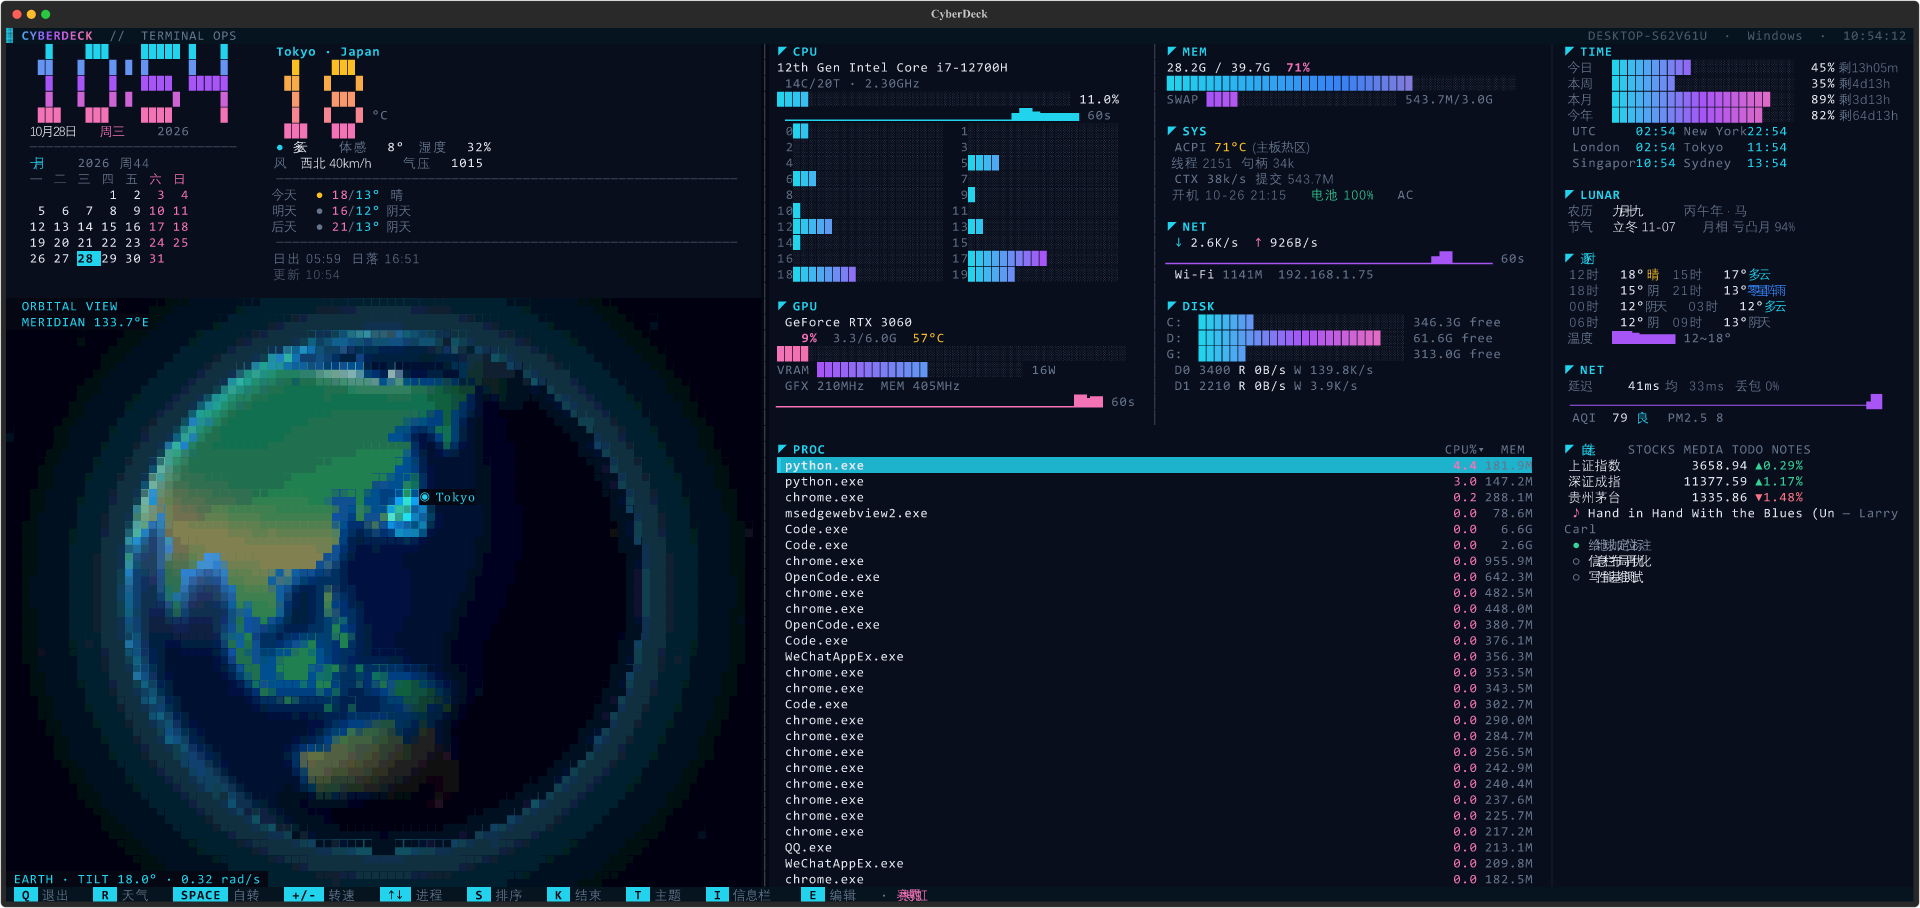
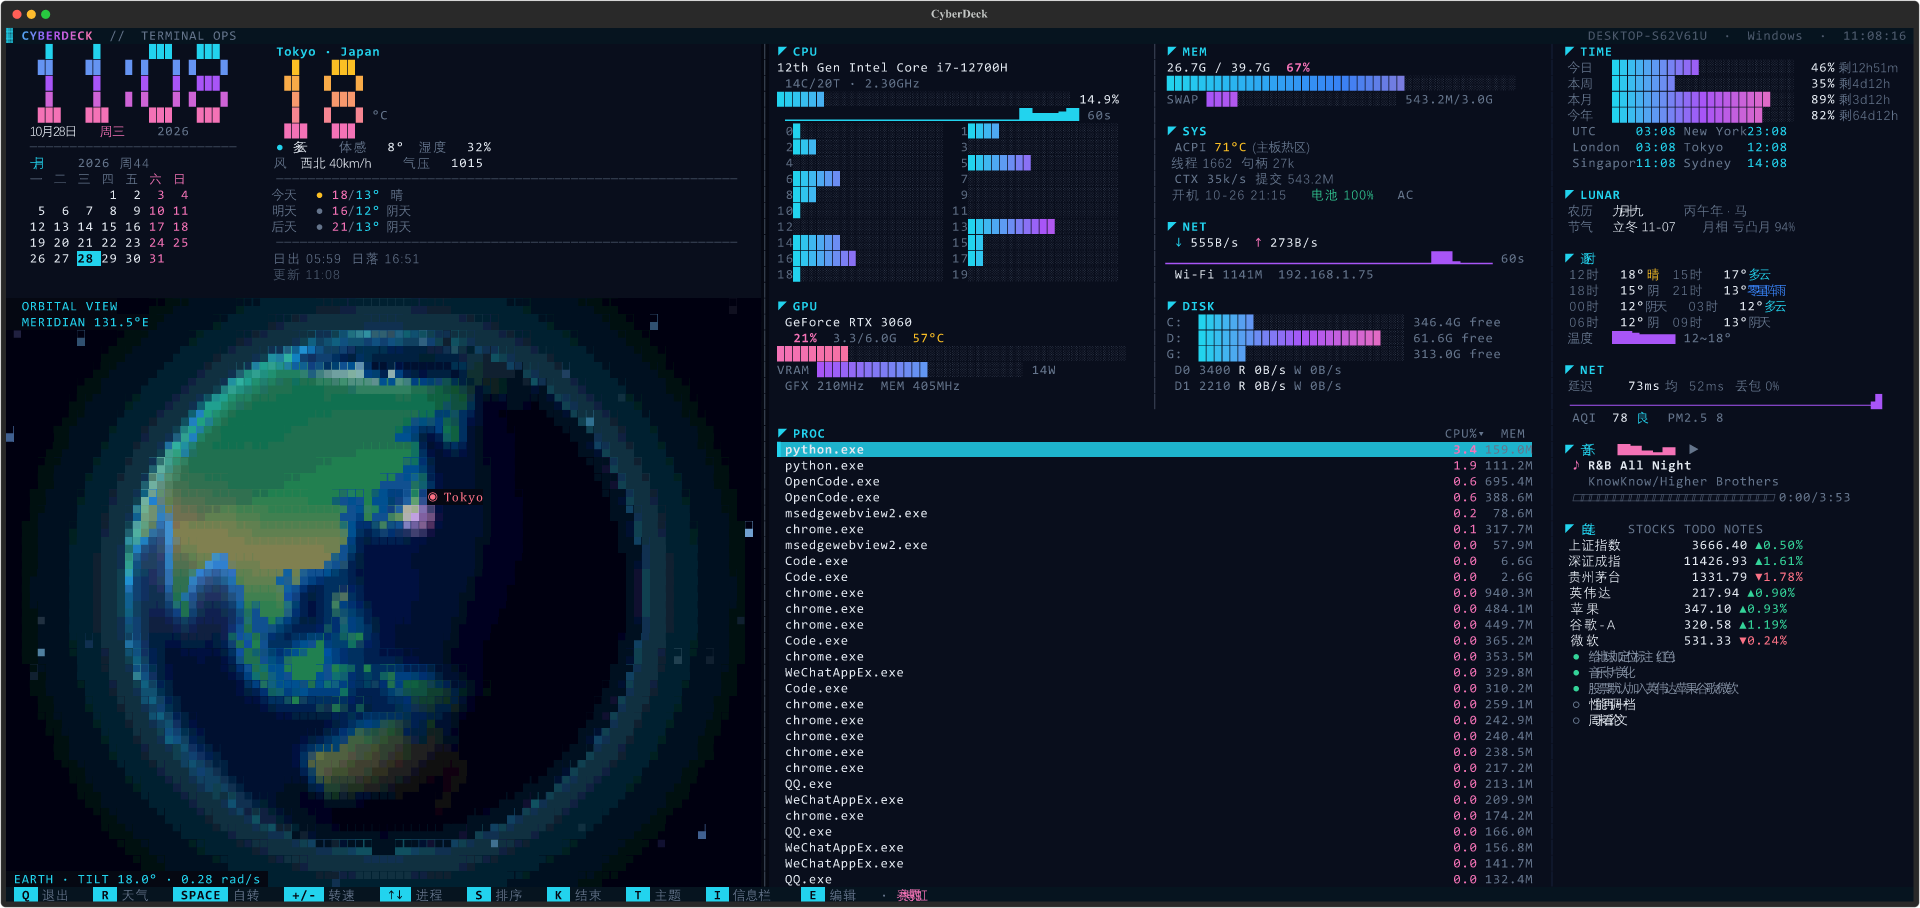
feat: red location marker, music card, US stocks by default
The globe marker (pulse + city label) is now red, matching the accent.
Music gets its own card: animated bars, marquee title, artist and a
rectangle progress bar with elapsed/total time.
Default watchlist adds NVIDIA, Apple, Alphabet and Microsoft (usNVDA,
usAAPL, usGOOGL, usMSFT); symbol parsing accepts us./hk. prefixes with dots.

diff --git a/src/cyberdeck/extras.py b/src/cyberdeck/extras.py
@@ -139,12 +139,17 @@ def parse_stocks(text: str) -> list[tuple[str, str, float]]:
 
 
 def parse_symbols(text: str) -> list[str]:
-    """Split 'sh600519, us.AAPL' (commas, Chinese commas, spaces) into symbols."""
+    """Split 'sh600519, us.AAPL' into Tencent-style symbols (us./hk. dots removed)."""
     cleaned = text.replace("，", ",").replace("、", ",").replace(";", ",").replace(" ", ",")
     out: list[str] = []
     for part in cleaned.split(","):
         symbol = part.strip()
-        if symbol and symbol not in out:
+        if not symbol:
+            continue
+        prefix, dot, ticker = symbol.partition(".")
+        if dot and prefix.lower() in ("us", "hk"):
+            symbol = prefix.lower() + ticker.upper()
+        if symbol not in out:
             out.append(symbol)
     return out[:12]
 
@@ -277,6 +282,8 @@ class Media:
     title: str
     artist: str
     playing: bool
+    position: float = 0.0
+    duration: float = 0.0
 
 
 def fetch_stocks(symbols: list[str]) -> list[Quote]:
@@ -322,7 +329,16 @@ def fetch_media() -> Media | None:
             return None
         props = await session.try_get_media_properties_async()
         status = session.get_playback_info().playback_status
-        return Media(props.title or "", props.artist or "", int(status) == 4)
+        timeline = session.get_timeline_properties()
+        position = getattr(timeline, "position", None)
+        end = getattr(timeline, "end_time", None)
+        return Media(
+            props.title or "",
+            props.artist or "",
+            int(status) == 4,
+            position.total_seconds() if position else 0.0,
+            end.total_seconds() if end else 0.0,
+        )
 
     try:
         return asyncio.run(read())
@@ -355,7 +371,10 @@ class InfoPanel(Widget):
         cfg = (config or {}).get("info", {}) if isinstance(config, dict) else {}
         self.cfg = cfg
         self.modules: list[str] = list(cfg.get("modules") or ["stocks", "media", "todo", "notes"])
-        self.stocks: list[str] = list(cfg.get("stocks") or ["sh000001", "sz399001", "sh600519"])
+        self.stocks: list[str] = list(cfg.get("stocks") or [
+            "sh000001", "sz399001", "sh600519",
+            "usNVDA", "usAAPL", "usGOOGL", "usMSFT",
+        ])
         self.zones: list[str] = list(cfg.get("zones") or [
             "UTC", "America/New_York", "Europe/London", "Asia/Tokyo", "Asia/Singapore", "Australia/Sydney",
         ])
@@ -372,7 +391,7 @@ class InfoPanel(Widget):
 
     def on_mount(self) -> None:
         self._load_todo()
-        self.set_interval(2.0, self._tick)
+        self.set_interval(1.0, self._tick)
         self.set_interval(5.0, self._poll_latency)
         self.set_interval(60.0, self._poll_stocks)
         self.set_interval(10.0, self._poll_media)
@@ -507,6 +526,10 @@ class InfoPanel(Widget):
         blocks.append(Text(""))
         blocks += self._sec_network(w)
         blocks.append(Text(""))
+        media = self._sec_media(w)
+        if media:
+            blocks += media
+            blocks.append(Text(""))
         blocks += self._sec_custom(w)
         notes = self._sec_notes(w)
         if notes:
@@ -647,9 +670,64 @@ class InfoPanel(Widget):
         lines.append(row)
         return lines
 
+    def _sec_media(self, w: int) -> list[Text]:
+        if "media" not in self.modules:
+            return []
+        c = self._style()
+        m = self.state.media
+        bars = "▁▂▃▄▅▆▇█"
+        if m and m.playing:
+            now = time.monotonic()
+            eq = "".join(bars[1 + int((math.sin(now * 3.1 + i * 1.27) + 1) * 3)] for i in range(5))
+        else:
+            eq = "▁▁▁▁▁"
+
+        head = Text(no_wrap=True, end="")
+        head.append("◤ ", c["cyan"])
+        head.append("音乐", f"bold {c['cyan']}")
+        head.append("   " + eq, c["mag"] if m and m.playing else c["dim"])
+        if m:
+            head.append("  ▶" if m.playing else "  ❚❚", c["dim"])
+        lines = [head]
+
+        if not m or not m.title:
+            lines.append(Text(" 未在播放", style=c["dim"]))
+            return lines
+
+        title = m.title
+        avail = max(6, w - 3)
+        if len(title) > avail and m.playing:
+            padded = title + "   "
+            offset = int(time.monotonic() * 4) % len(padded)
+            title = (padded + padded)[offset:offset + avail]
+        row = Text(no_wrap=True, end="")
+        row.append(" ♪ ", c["mag"] if m.playing else c["dim"])
+        row.append(title[:avail], f"bold {c['text']}")
+        lines.append(row)
+
+        if m.artist:
+            artist = Text(no_wrap=True, end="")
+            artist.append("   " + m.artist[: max(4, w - 4)], c["dim"])
+            lines.append(artist)
+
+        if m.duration > 1:
+            ratio = max(0.0, min(1.0, m.position / m.duration))
+            bar_w = max(6, w - 18)
+            progress = Text(no_wrap=True, end="")
+            progress.append(" ")
+            for ch, color in theme.gauge(ratio, bar_w, [theme.P.red, theme.P.magenta],
+                                         filled="▰", empty="▱"):
+                progress.append(ch, color)
+            pos = int(m.position)
+            dur = int(m.duration)
+            progress.append(f" {pos // 60}:{pos % 60:02d}/{dur // 60}:{dur % 60:02d}", c["dim"])
+            lines.append(progress)
+        return lines
+
     def _sec_custom(self, w: int) -> list[Text]:
         c = self._style()
-        lines = [self._header("自选", " ".join(m.upper() for m in self.modules))]
+        mods = [m.upper() for m in self.modules if m != "media"]
+        lines = [self._header("自选", " ".join(mods))]
         if "stocks" in self.modules:
             if self.state.quotes:
                 for q in self.state.quotes[:8]:
@@ -662,17 +740,6 @@ class InfoPanel(Widget):
                     lines.append(row)
             else:
                 lines.append(Text(" 行情 --", style=c["dim"]))
-        if "media" in self.modules:
-            media = self.state.media
-            row = Text(no_wrap=True, end="")
-            if media and media.title:
-                row.append(" ♪ ", c["mag"] if media.playing else c["dim"])
-                row.append(media.title[: max(4, w - 12)], c["text"])
-                if media.artist:
-                    row.append(" — " + media.artist[:10], c["dim"])
-            else:
-                row.append(" ♪ 未在播放", c["dim"])
-            lines.append(row)
         if "todo" in self.modules:
             todo = self.state.todo
             path = self._todo_file()

diff --git a/src/cyberdeck/globe.py b/src/cyberdeck/globe.py
@@ -168,7 +168,7 @@ class GlobeEngine:
         dot = np.exp(-((dist / 0.8) ** 2)) * 0.70
         glow = np.exp(-((dist / 2.6) ** 2)) * 0.10
         weight = np.clip(ring + dot + glow, 0, 1)[..., None]
-        img[y0:y1, x0:x1] += weight * np.array(p.cyan, np.float32)
+        img[y0:y1, x0:x1] += weight * np.array(p.red, np.float32)
 
     def render(self, w: int, h: int, yaw: float, t: float, tilt: float = TILT,
                marker: tuple[float, float] | None = None) -> np.ndarray:
@@ -288,7 +288,8 @@ def _overlay(chars: np.ndarray, keys: np.ndarray, row: int, col: int, text: str,
 
 
 def image_to_text(img: np.ndarray, caption: str | None = None, hud: list[str] | None = None,
-                  label: tuple[int, int, str] | None = None) -> Text:
+                  label: tuple[int, int, str] | None = None,
+                  label_color: tuple[int, int, int] | None = None) -> Text:
     """Pack an RGB image (2 pixels per cell) into a truecolor half-block Text."""
     ph, w, _ = img.shape
     h = ph // 2
@@ -310,7 +311,9 @@ def image_to_text(img: np.ndarray, caption: str | None = None, hud: list[str] | 
         _overlay(chars, keys, h - 1, 0, caption, cyan, bg)
     if label is not None:
         col, row, text = label
-        _overlay(chars, keys, row, max(0, col), text, cyan, bg)
+        tone = label_color or p.cyan
+        _overlay(chars, keys, row, max(0, col), text,
+                 (tone[0] << 16) | (tone[1] << 8) | tone[2], bg)
 
     out = Text(no_wrap=True, end="")
     for y in range(h):
@@ -407,7 +410,8 @@ class Globe(Widget):
                 col = max(0, cx - len(text) - 2)
             label = (col, max(0, min(h - 3, cy)), text)
 
-        result = image_to_text(img, caption, hud=["ORBITAL VIEW", f"MERIDIAN {meridian}"], label=label)
+        result = image_to_text(img, caption, hud=["ORBITAL VIEW", f"MERIDIAN {meridian}"],
+                               label=label, label_color=theme.P.red)
         self._frame_ms = (time.perf_counter() - start) * 1000
         return result
 

diff --git a/tests/test_core.py b/tests/test_core.py
@@ -295,10 +295,24 @@ def test_globe_marker():
 def test_parse_symbols():
     from cyberdeck.extras import parse_symbols
 
-    assert parse_symbols("sh600519, us.AAPL") == ["sh600519", "us.AAPL"]
-    assert parse_symbols("sh600519，sz399001、us.AAPL") == ["sh600519", "sz399001", "us.AAPL"]
+    assert parse_symbols("sh600519, us.AAPL") == ["sh600519", "usAAPL"]
+    assert parse_symbols("sh600519，sz399001、us.NVDA") == ["sh600519", "sz399001", "usNVDA"]
     assert parse_symbols("  sh600519  sh600519 ") == ["sh600519"]
+    assert parse_symbols("us.aapl, hk.700") == ["usAAPL", "hk700"]
     assert parse_symbols("") == []
+
+
+def test_media_section():
+    from cyberdeck.extras import Media
+
+    panel = InfoPanel({"info": {"modules": ["media"], "zones": ["UTC"]}})
+    panel.state.media = Media("Forever Yours", "J. Brown", True, 12.0, 227.0)
+    text = panel.build(43, 30).plain
+    assert "音乐" in text and "Forever Yours" in text and "J. Brown" in text
+    assert "0:12/3:47" in text
+    # stopped playback still renders without progress
+    panel.state.media = Media("", "", False)
+    assert "未在播放" in panel.build(43, 30).plain
 
 
 

diff --git a/README.md b/README.md
@@ -73,7 +73,7 @@ $env:CYBERDECK_CITY = "Shanghai"; uv run cyberdeck
 
 ## 地球定位标注
 
-天气数据里带回城市坐标后，地球表面会出现一个**脉动的青色标记**，旁边标着城市名；转到背面时自动隐藏（`MERIDIAN` 读数会同步显示当前正对的经线）。
+天气数据里带回城市坐标后，地球表面会出现一个**脉动的红色标记**，旁边标着城市名；转到背面时自动隐藏（`MERIDIAN` 读数会同步显示当前正对的经线）。
 
 
 ## 主题
@@ -101,7 +101,7 @@ $env:CYBERDECK_CITY = "Shanghai"; uv run cyberdeck
   "info": {
     "enabled": true,
     "modules": ["stocks", "media", "todo", "notes"],
-    "stocks": ["sh000001", "sz399001", "sh600519"],
+    "stocks": ["sh000001", "sz399001", "sh600519", "usNVDA", "usAAPL", "usGOOGL", "usMSFT"],
     "zones": ["UTC", "America/New_York", "Europe/London", "Asia/Tokyo", "Asia/Singapore", "Australia/Sydney"],
     "todo_file": null,
     "notes_file": null
@@ -116,7 +116,7 @@ $env:CYBERDECK_CITY = "Shanghai"; uv run cyberdeck
 | 逐时 | 未来 8 小时温度/天气 + 温度曲线 | wttr.in 缓存 |
 | NET | 延迟/抖动/丢包 + AQI/PM2.5 | TCP 握手 + Open-Meteo |
 | stocks | 上证/深证/个股（`sh`/`sz`/`us` 前缀） | 腾讯行情 |
-| media | 正在播放的歌 / 歌手 | Windows 媒体会话（winrt） |
+| media | 正在播放：律动条 + 标题 + 歌手 + 进度条 | Windows 媒体会话（winrt） |
 | todo | 待办清单 | `todo_file` 或 `%LOCALAPPDATA%\cyberdeck\todo.txt` |
 | notes | 自由便签（任意文本，最多 10 行） | `notes_file` 或 `%LOCALAPPDATA%\cyberdeck\notes.txt` |
 
